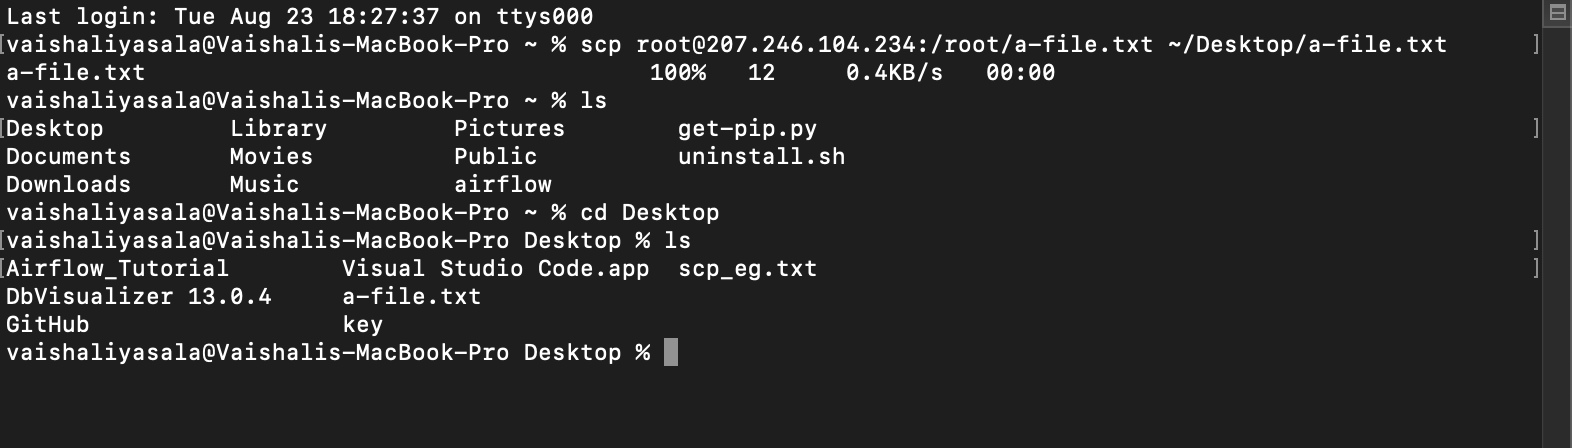
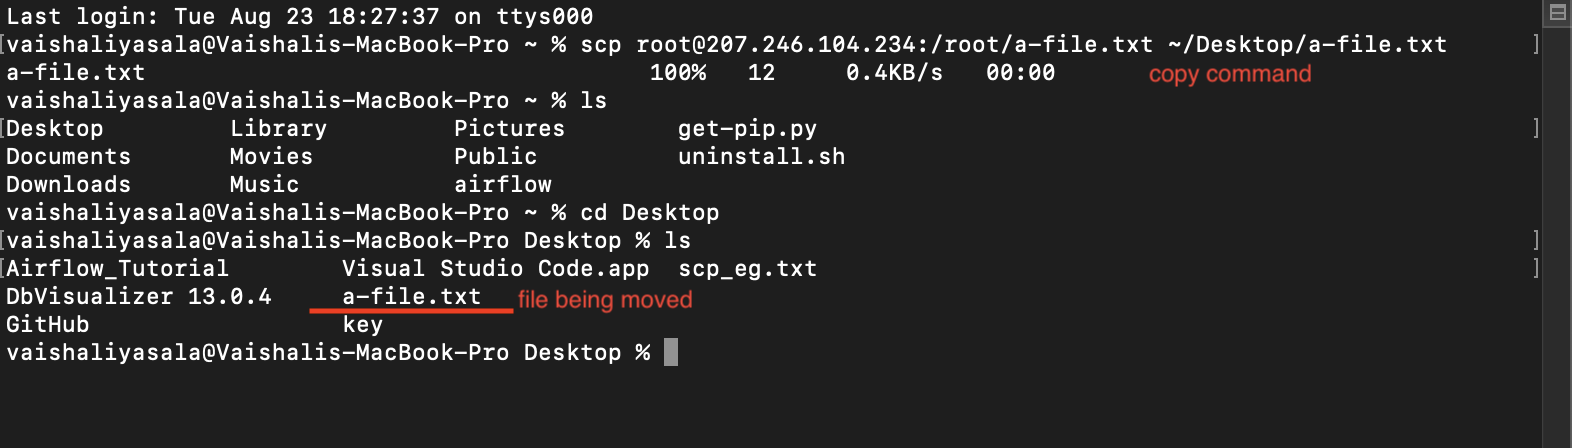
images edit

Changed region(s): [[0.187, 0.6562, 0.4364, 0.7188], [0.7169, 0.1562, 0.8416, 0.1875]]

diff --git a/README.md b/README.md
@@ -81,7 +81,7 @@ This image shows the login to the remote machine, creating a file on there and c
 ![Alt text](/scp/scp_login_and_file.png)
 
 #### Image 2:
-This image shows the command to copy the file created earlier from the remote server to the local computer.
+This image shows the command to copy the file created earlier on the remote server to the local computer.
 
 ![Alt text](/scp/sch_remote_to_local.png)
 
